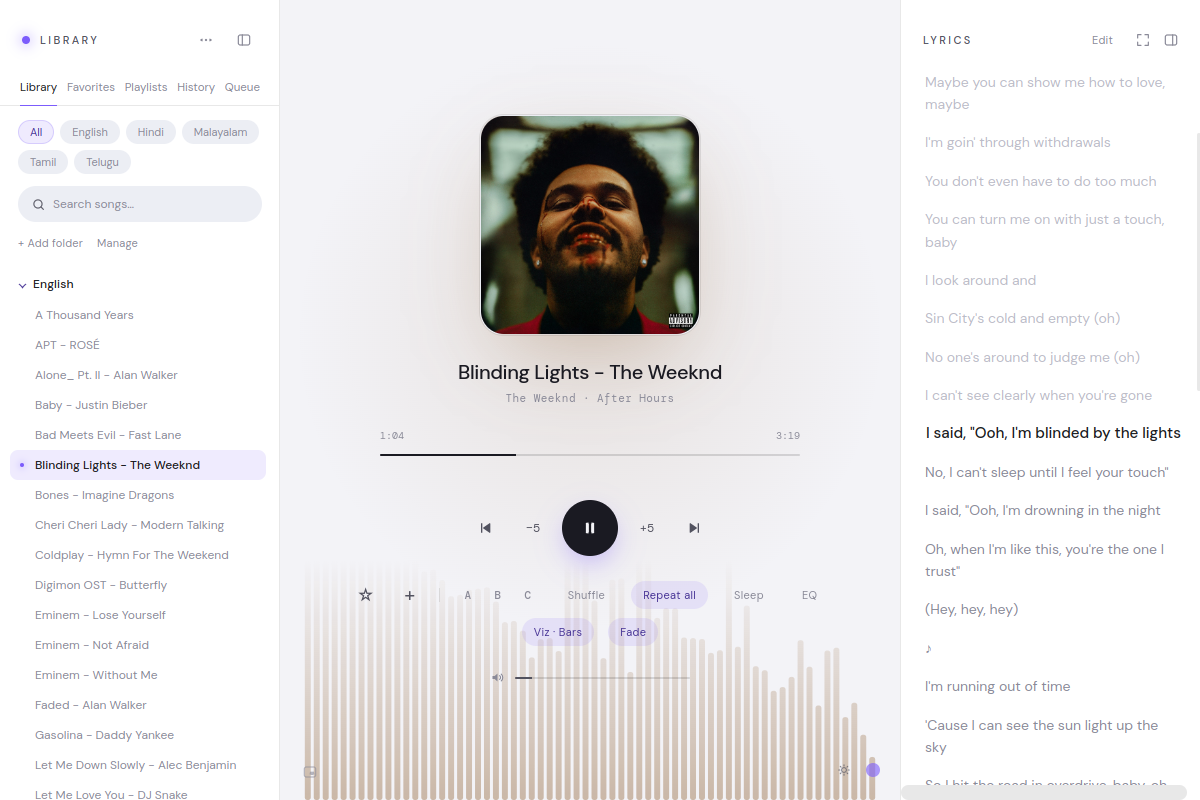
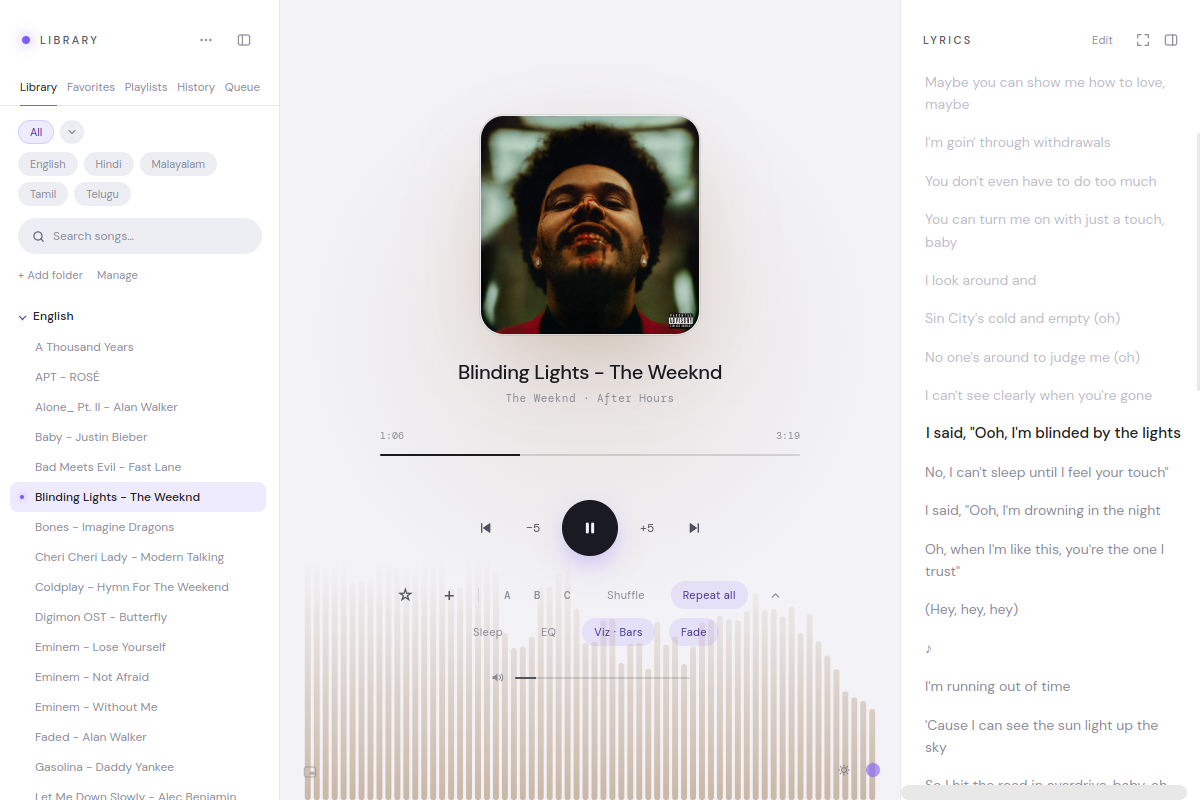
Update README and screenshots for new controls

diff --git a/README.md b/README.md
@@ -51,11 +51,12 @@ When you start a song that has no saved lyrics, Serien looks them up in the back
 | :--- | :--- |
 | **Formats** | MP3, FLAC, WAV, M4A, OGG, AAC, played through [Howler.js](https://howlerjs.com) |
 | **Album art & tags** | Reads embedded cover art, artist and album, or `cover.jpg` / `folder.jpg` next to the files. The cover's colors become the glow behind the player |
-| **Library** | Add any folders, including other drives. Browse by folder, filter by language chip, search instantly |
+| **Library** | Add any folders, including other drives. Browse by folder, search instantly, and filter by language with a collapsible chip list (click the `›` next to **All**) |
 | **Indic search** | Type `kesariya` and find `केसरिया`. Search 8 Indian scripts using plain English keystrokes, powered by [`@indic-transliteration/sanscript`](https://github.com/indic-transliteration/sanscript.js) |
 | **Favorites & playlists** | Star songs, group favorites into categories, create and rename playlists |
 | **Queue, history, most played** | A persistent play queue, recently played list and play counts |
 | **A–B loop** | Mark a start and end point and loop a passage, handy for learning a song |
+| **Tidy controls** | Sleep timer, equalizer, visualizer and fade tuck away behind a `⌄` button and slide out as a second row when you need them. Open or closed is remembered |
 | **Sleep timer** | 5 to 90 minutes |
 | **Fade in/out** | Smooth fades on play, pause and sleep timer |
 | **Shuffle & repeat** | Shuffle and repeat-all |
@@ -79,7 +80,7 @@ Real-time spectrum visualization in three styles: **Bars**, **Wave** and **Ring*
 
 ### 🌗 Light & dark mode
 
-Switch themes with the sun/moon button or **T**. Your choice is remembered, and works together with the accent color picker.
+Switch themes with the sun/moon button or **T**. Your choice is remembered, and works together with the accent color picker. The screenshot also shows the language list and the extra controls row expanded.
 
 ![Light mode](docs/screenshots/light-mode.png)
 
